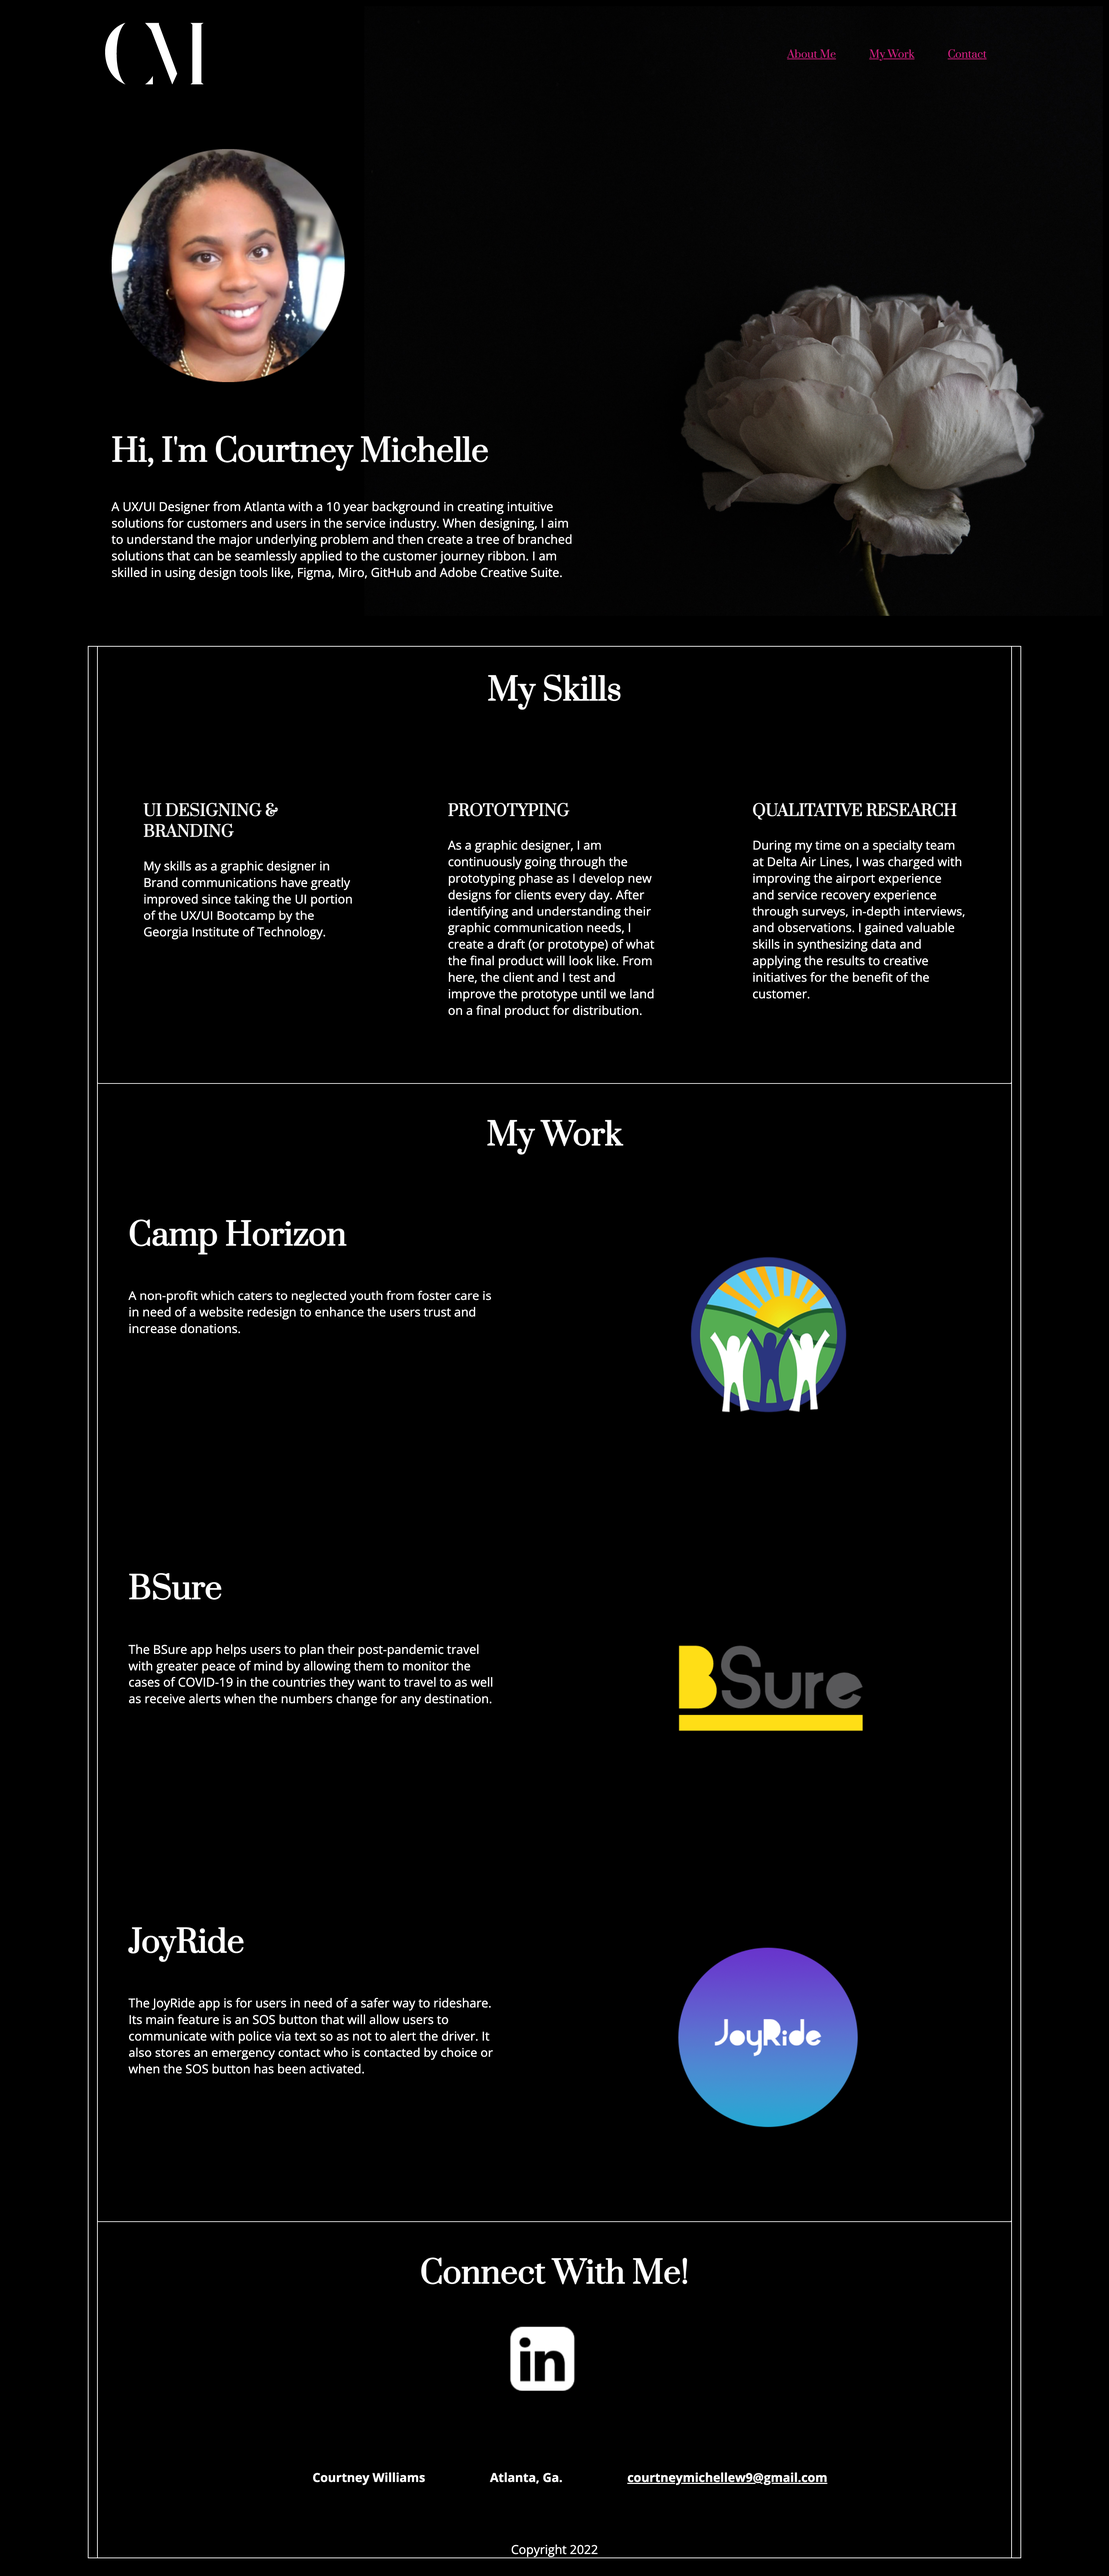
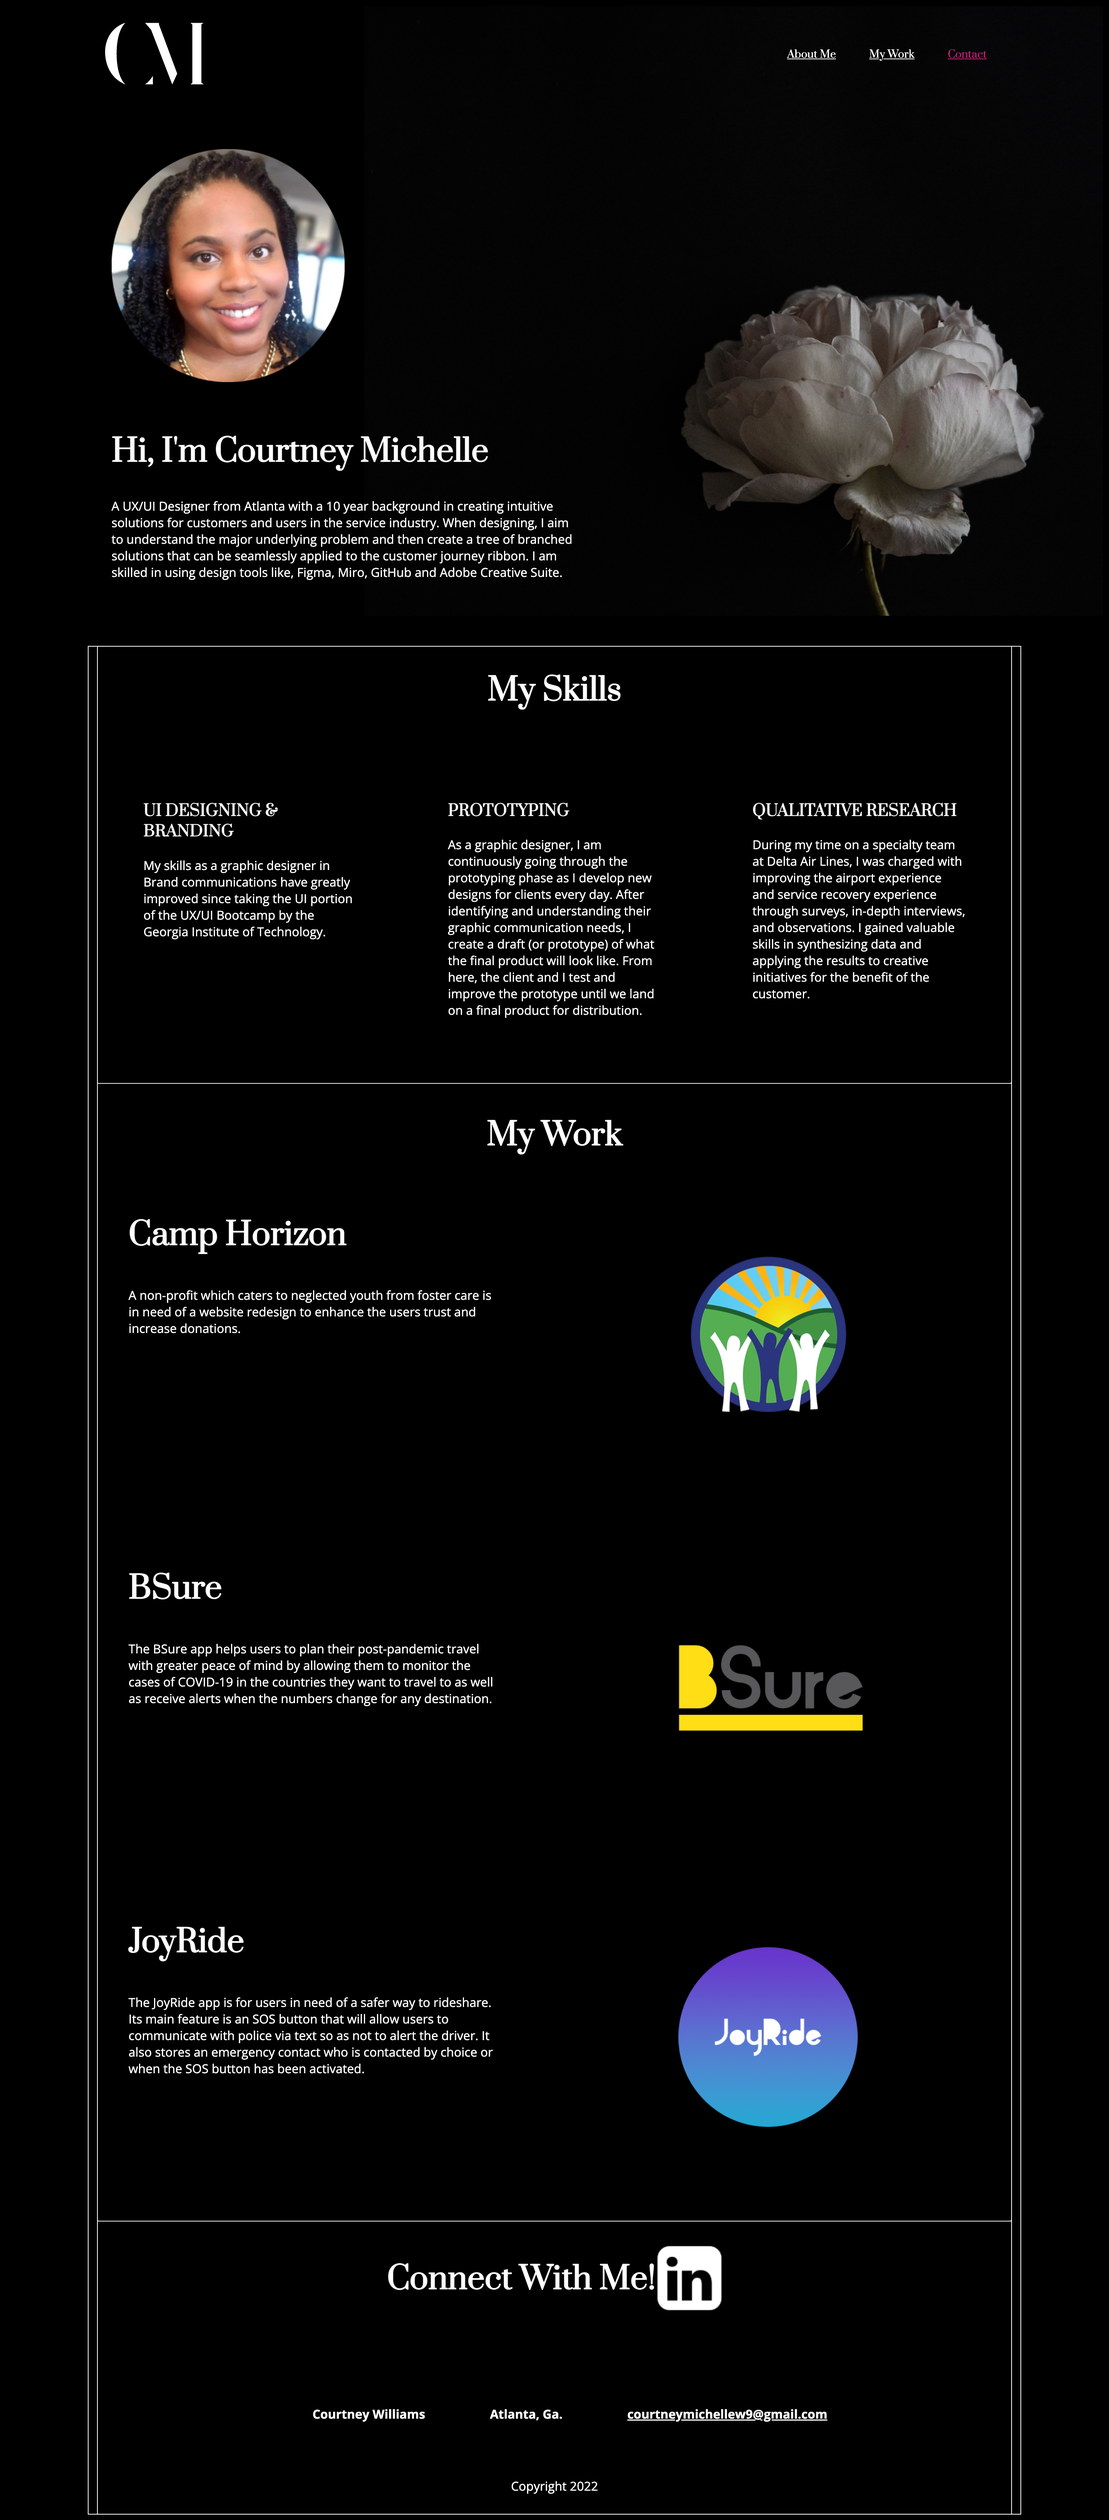
Re-fix LinkedIn add line

diff --git a/css/index.css b/css/index.css
@@ -275,21 +275,19 @@ body {
 
 .connectWithMe {
   /*outline: solid red 1px;*/
-  display: flex;
   width: 100%;
   padding-bottom: 40px;
   margin: auto;
-  align-items: center;
-  justify-content: center;
-  text-align: center;
 }
 
 #connectText {
-  
+  text-align: center;
 }
 
 #imgLi {
-  
+  position: relative;
+  top: 30%;
+  left: 47%;
 }
 footer {
   /*outline: solid red 1px;*/

diff --git a/index.html b/index.html
@@ -145,6 +145,7 @@
         <a href="https://www.linkedin.com/in/courtneywcreative/" target="_blank"><img src="Images/LinkedIN_white.png" id="imgLi"></a>
       </div>
     </div>
+    <hr class="solid">
     <footer id="contact">
       <nav class="footerText">
         <ul>
